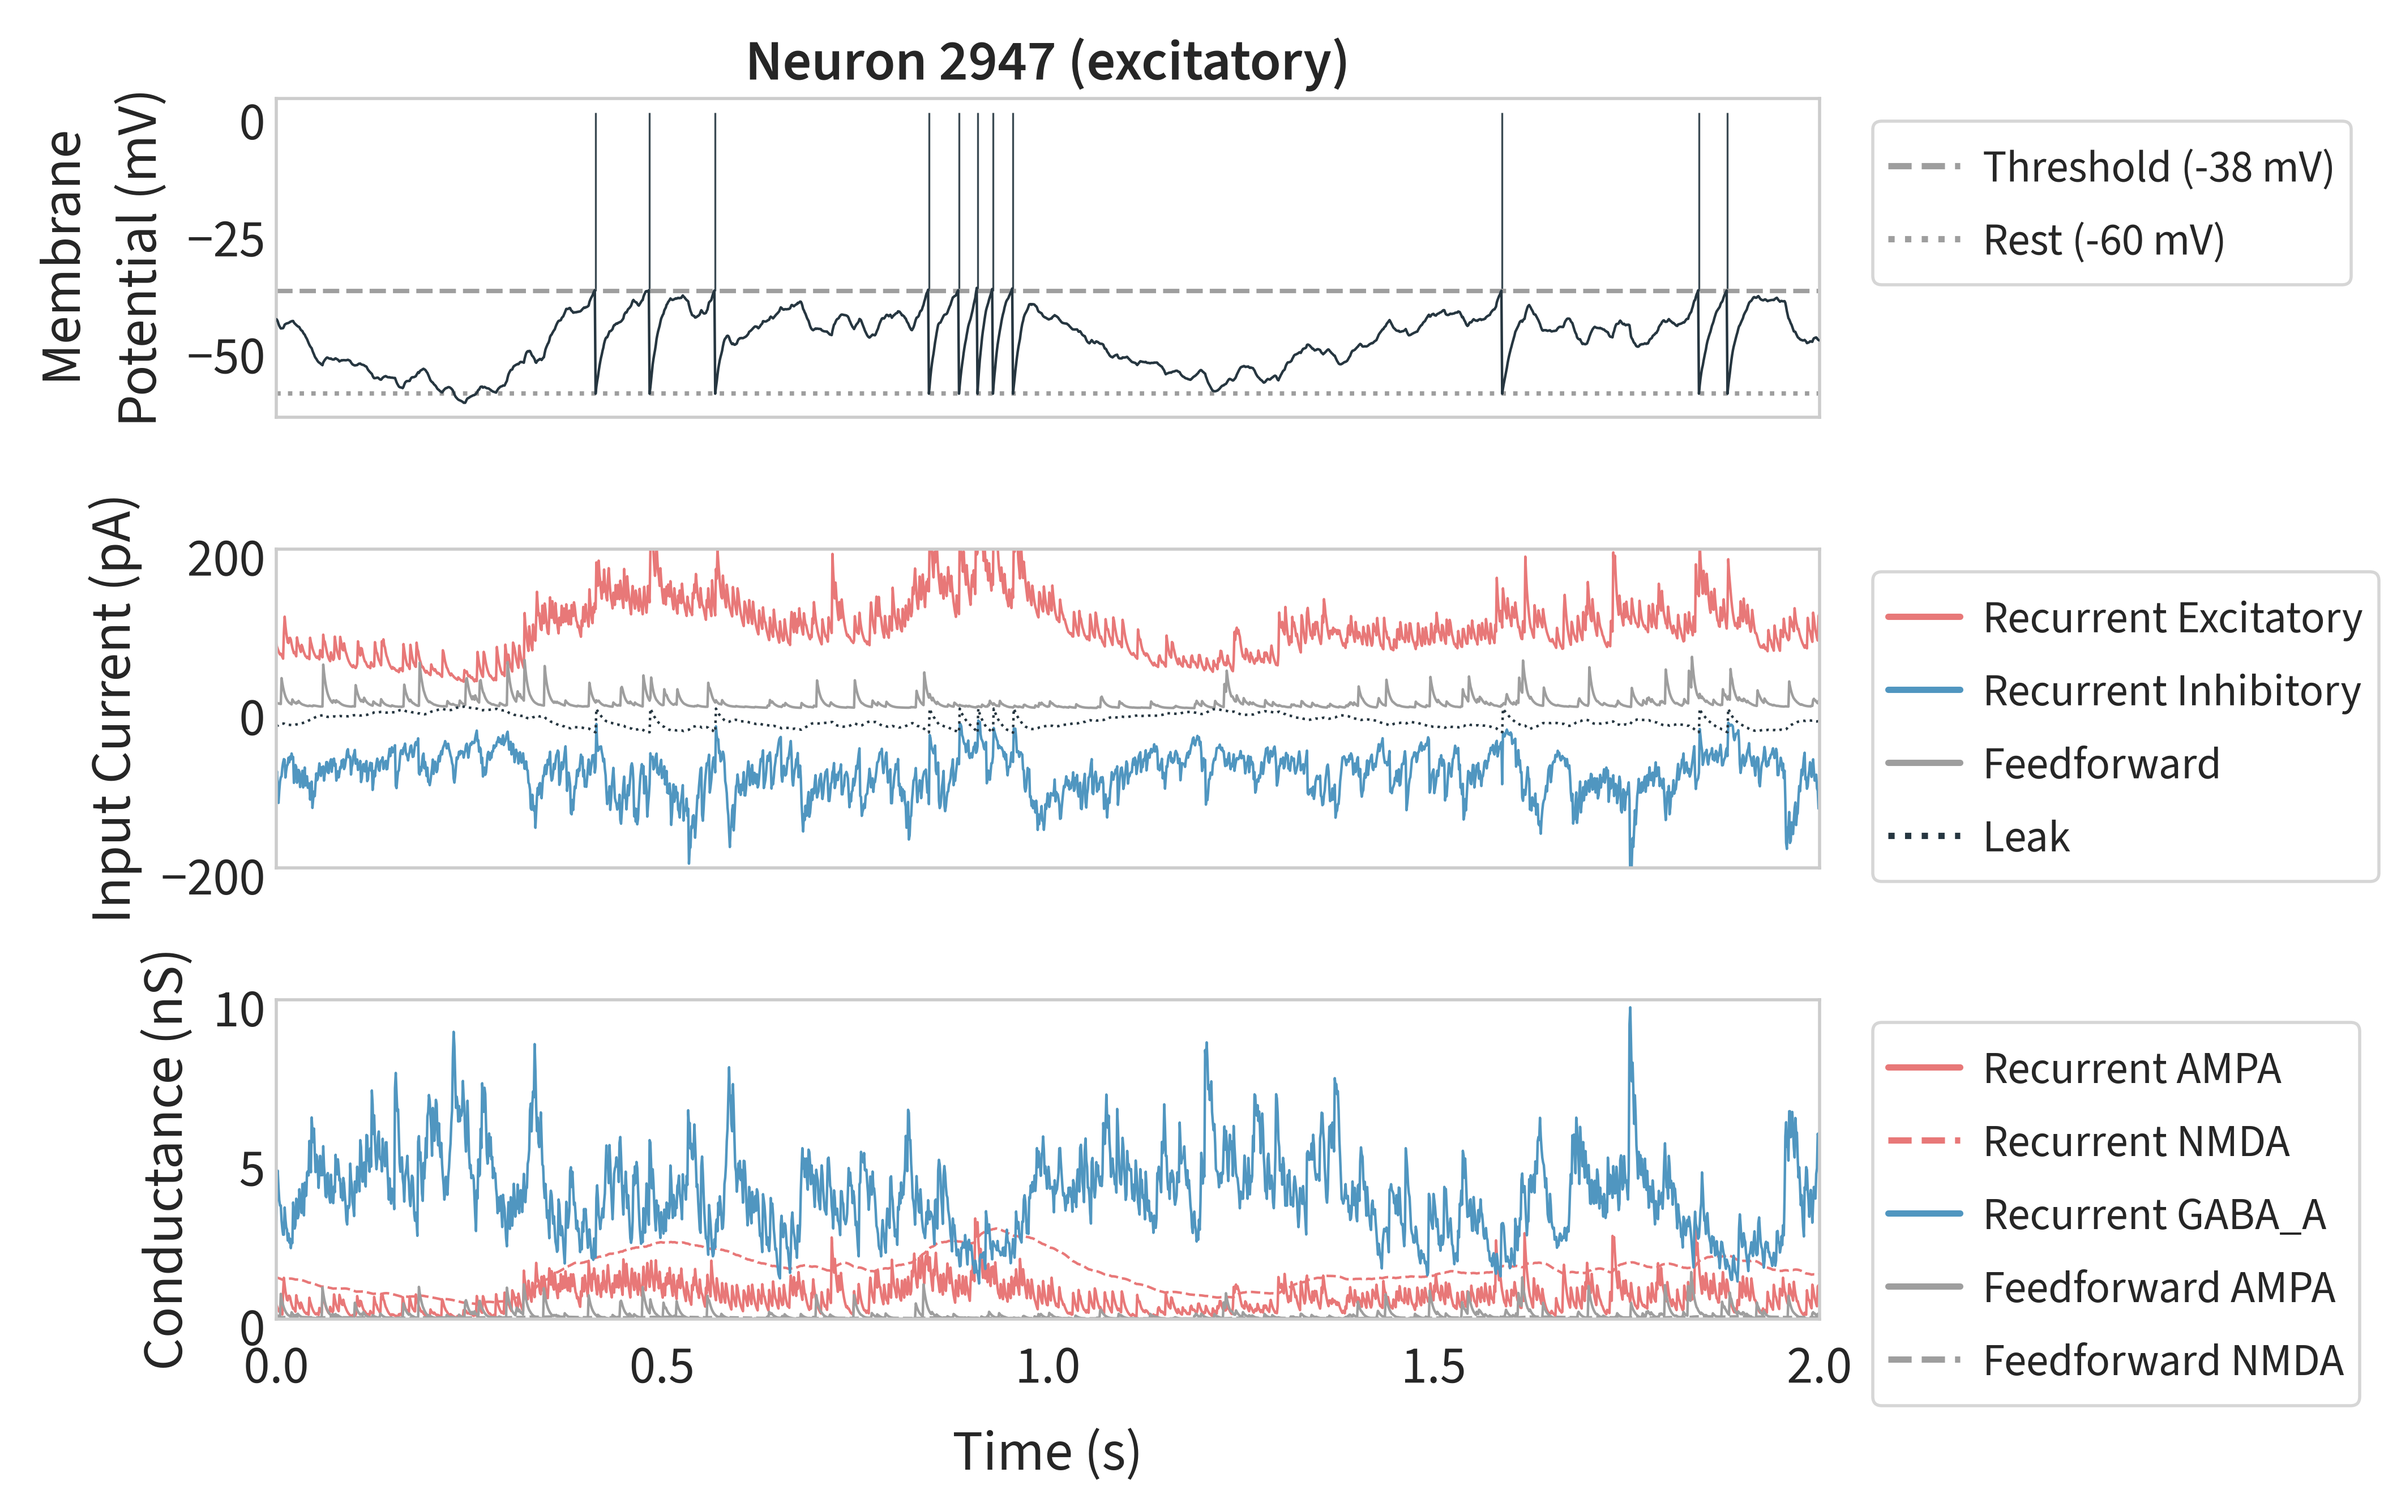
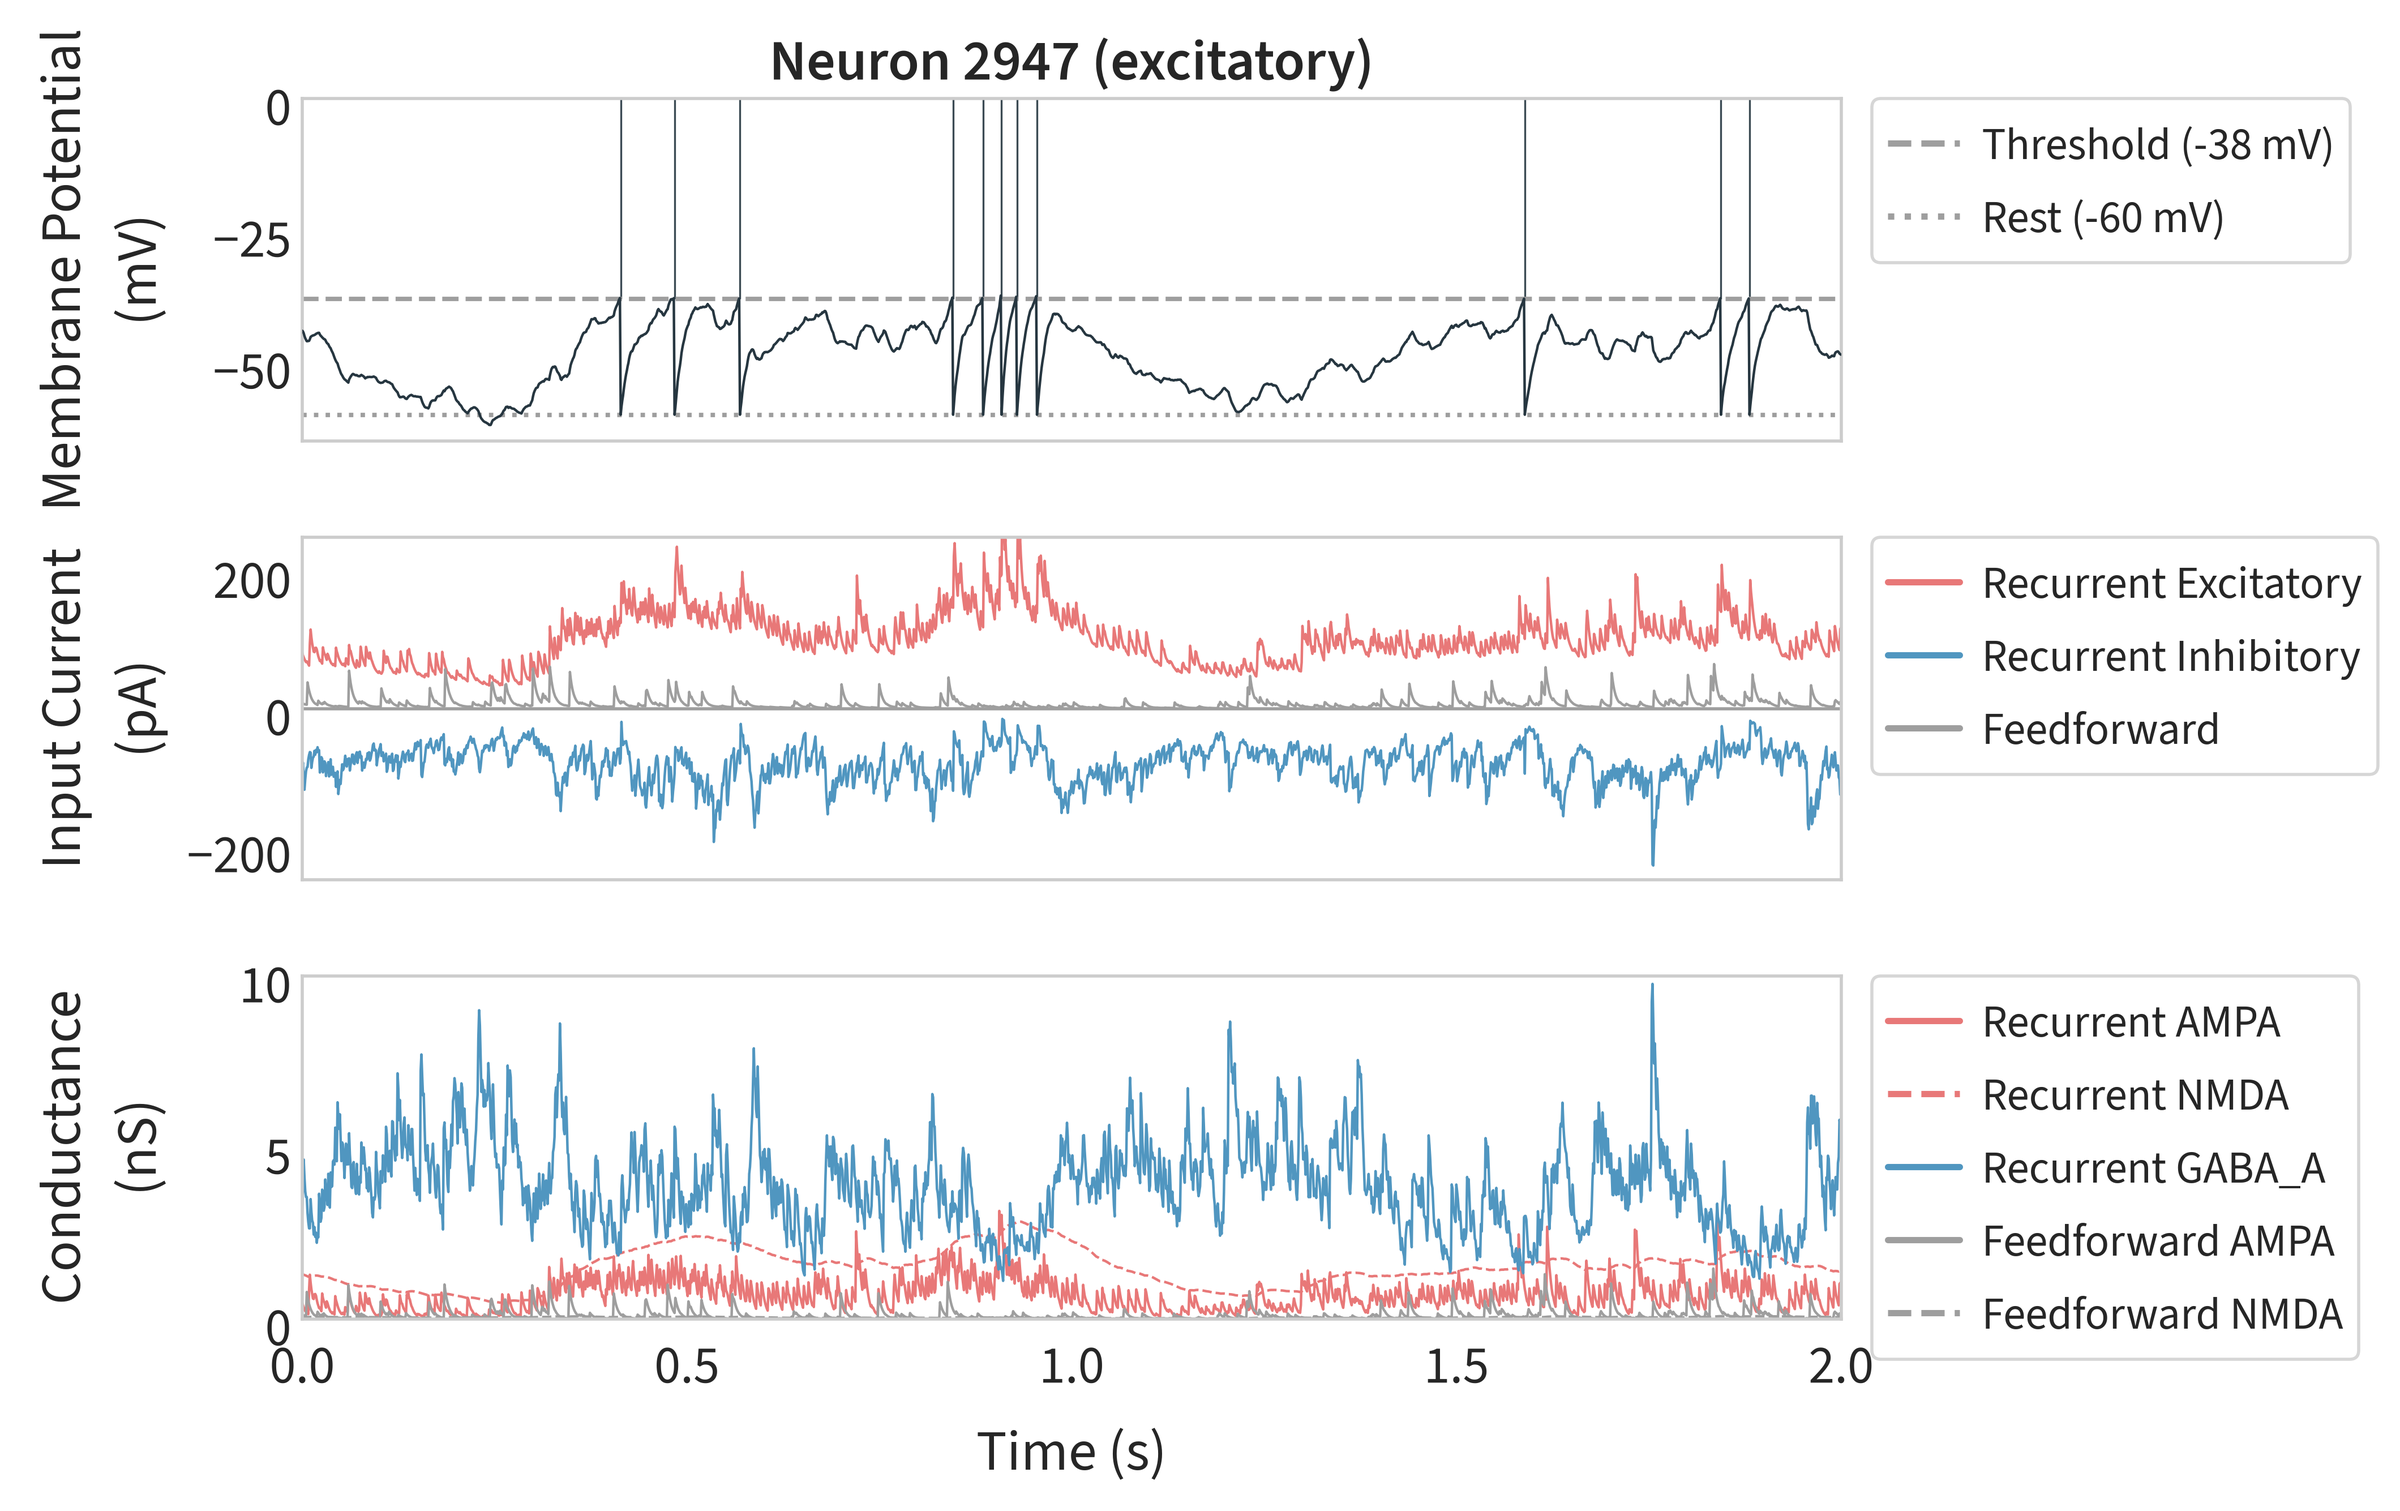
:art: Traces panel: no leak, zero line, fixed 250 pA range, aligned labels and legends

diff --git a/fig00-teacher-activity/figures.py b/fig00-teacher-activity/figures.py
@@ -62,6 +62,8 @@ FIGURE = "fig00"
 TRACE_WINDOW_S = 2.0
 #: Ticks every half second across the two-second window.
 TRACE_TICK_S = 0.5
+#: The current panel's fixed range, in pA.
+CURRENT_LIMIT_PA = 250
 TRACE_WINDOW_BIN_S = 0.5
 #: Assembly panels tick every 5 s, so the 15 s trial ends on a tick.
 ASSEMBLY_TICK_S = 5.0
@@ -141,6 +143,7 @@ def trace_legend(ax):
         ax,
         loc="upper left",
         bbox_to_anchor=(1.02, 1.0),
+        borderaxespad=0.0,  # flush with the top of the axes it belongs to
         frameon=True,
         fontsize=TICK_SIZE * 0.85,
         borderpad=0.35,
@@ -192,7 +195,6 @@ def neuron_traces(data):
     time_s = data["time_s"][window] - start
     synapses = [str(name) for name in data["synapse"]]
     current = -data["current_pa"][window]
-    leak = -data["leak_current_pa"][window]
     conductance = data["conductance_ns"][window]
     threshold = float(data["threshold_mv"])
     fig, axes = plt.subplots(3, 1, figsize=(PAIR[0], PAIR[1] * 1.35), sharex=True)
@@ -227,7 +229,8 @@ def neuron_traces(data):
         zorder=2,
         label=f"Rest ({float(data['rest_mv']):.0f} mV)",
     )
-    axes[0].set_ylabel("Membrane\nPotential (mV)")
+    axes[0].set_ylim(top=0.0)  # spikes are drawn up to 0 mV, so that is the ceiling
+    axes[0].set_ylabel("Membrane Potential\n(mV)")
     trace_legend(axes[0])
     axes[0].set_title(f"Neuron {int(data['neuron_id'])} ({data['cell_type']!s})", pad=6)
 
@@ -239,17 +242,10 @@ def neuron_traces(data):
         axes[1].plot(
             time_s, trace, color=color, linewidth=0.8, label=label, rasterized=True
         )
-    axes[1].plot(
-        time_s,
-        leak,
-        color=INK,
-        linestyle=":",
-        linewidth=0.8,
-        label="Leak",
-        rasterized=True,
-    )
-    axes[1].set_ylabel("Input Current (pA)")
-    axes[1].set_ylim(*symmetric_limit(np.concatenate([*traces, leak])))
+    axes[1].axhline(0, color=REFERENCE_GREY, linewidth=1, zorder=0)
+    axes[1].set_ylabel("Input Current\n(pA)")
+    # +-250 pA: the pathways run to about 200 and the axis keeps a little headroom.
+    axes[1].set_ylim(-CURRENT_LIMIT_PA, CURRENT_LIMIT_PA)
     trace_legend(axes[1])
 
     for name in synapses:
@@ -263,7 +259,7 @@ def neuron_traces(data):
             label=name,
             rasterized=True,
         )
-    axes[2].set_ylabel("Conductance (nS)")
+    axes[2].set_ylabel("Conductance\n(nS)")
     axes[2].set_xlabel("Time (s)")
     axes[2].set_xlim(0, TRACE_WINDOW_S)
     axes[2].xaxis.set_major_locator(MultipleLocator(TRACE_TICK_S))
@@ -272,6 +268,7 @@ def neuron_traces(data):
     axes[2].set_ylim(0, nice_limit(np.percentile(conductance, 98)))
     trace_legend(axes[2])
     fig.tight_layout()
+    fig.align_ylabels(axes)  # one left edge for all three y labels
     return fig
 
 
